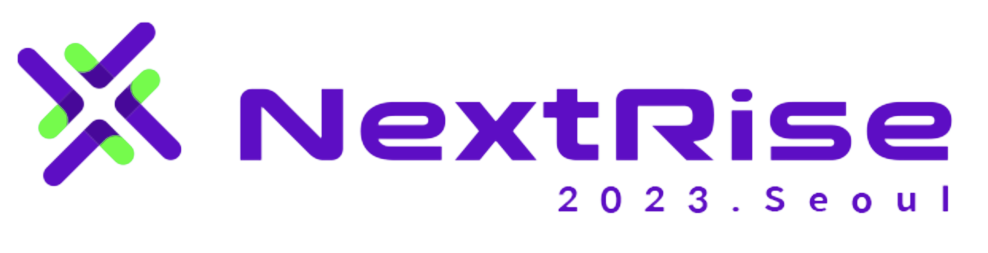
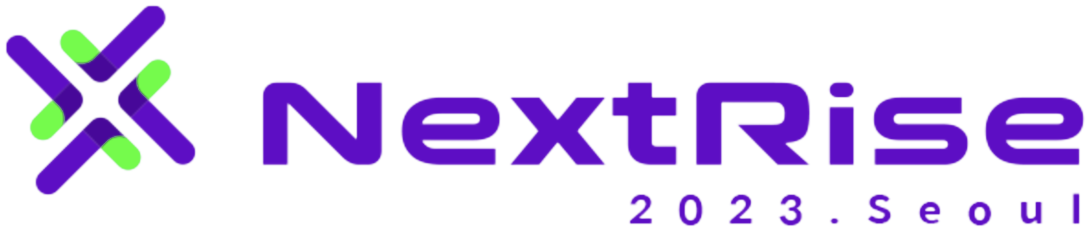
dd

diff --git a/styles.css b/styles.css
@@ -24,9 +24,6 @@ body {
   overflow-x: hidden;
   color: #fff;
 }
-/* .container {
-  max-width: 1300px;
-} */
 
 /* 플로팅 버튼 */
 .floating-button {
@@ -65,7 +62,7 @@ body {
   z-index: 100;
 }
 .logo {
-  width: 150px;
+  width: 300px;
 }
 .icon-cross {
   width: 25px;
@@ -238,5 +235,37 @@ body {
 @media (min-width: 1500px) {
   .container {
     max-width: 1400px;
+  }
+}
+@media (max-width: 532px) {
+  #left-side {
+    padding-right: 15px;
+  }
+  #right-side {
+    padding-left: 15px;
+  }
+  .status-header {
+    margin-top: 30px;
+  }
+  .status-field {
+    display: none;
+  }
+  .intro-title {
+    font-size: 30px;
+  }
+  .intro-desc2-price {
+    font-size: 24px;
+  }
+  .logos {
+    display: flex;
+    flex-direction: column;
+    justify-content: center;
+    align-items: center;
+  }
+  .logo {
+    width: 150px;
+  }
+  .icon-cross {
+    margin-top: 10px;
   }
 }

diff --git a/index.html b/index.html
@@ -28,13 +28,13 @@
         <!-- 언어 변경 버튼 -->
         <div class="translate-btns">
           <button
-            class="btn btn-outline-secondary"
+            class="btn btn-sm btn-outline-secondary"
             onclick="changeLanguage('en')"
           >
             ENGLISH
           </button>
           <button
-            class="btn btn-outline-secondary"
+            class="btn btn-sm btn-outline-secondary"
             onclick="changeLanguage('ko')"
           >
             KOREAN
